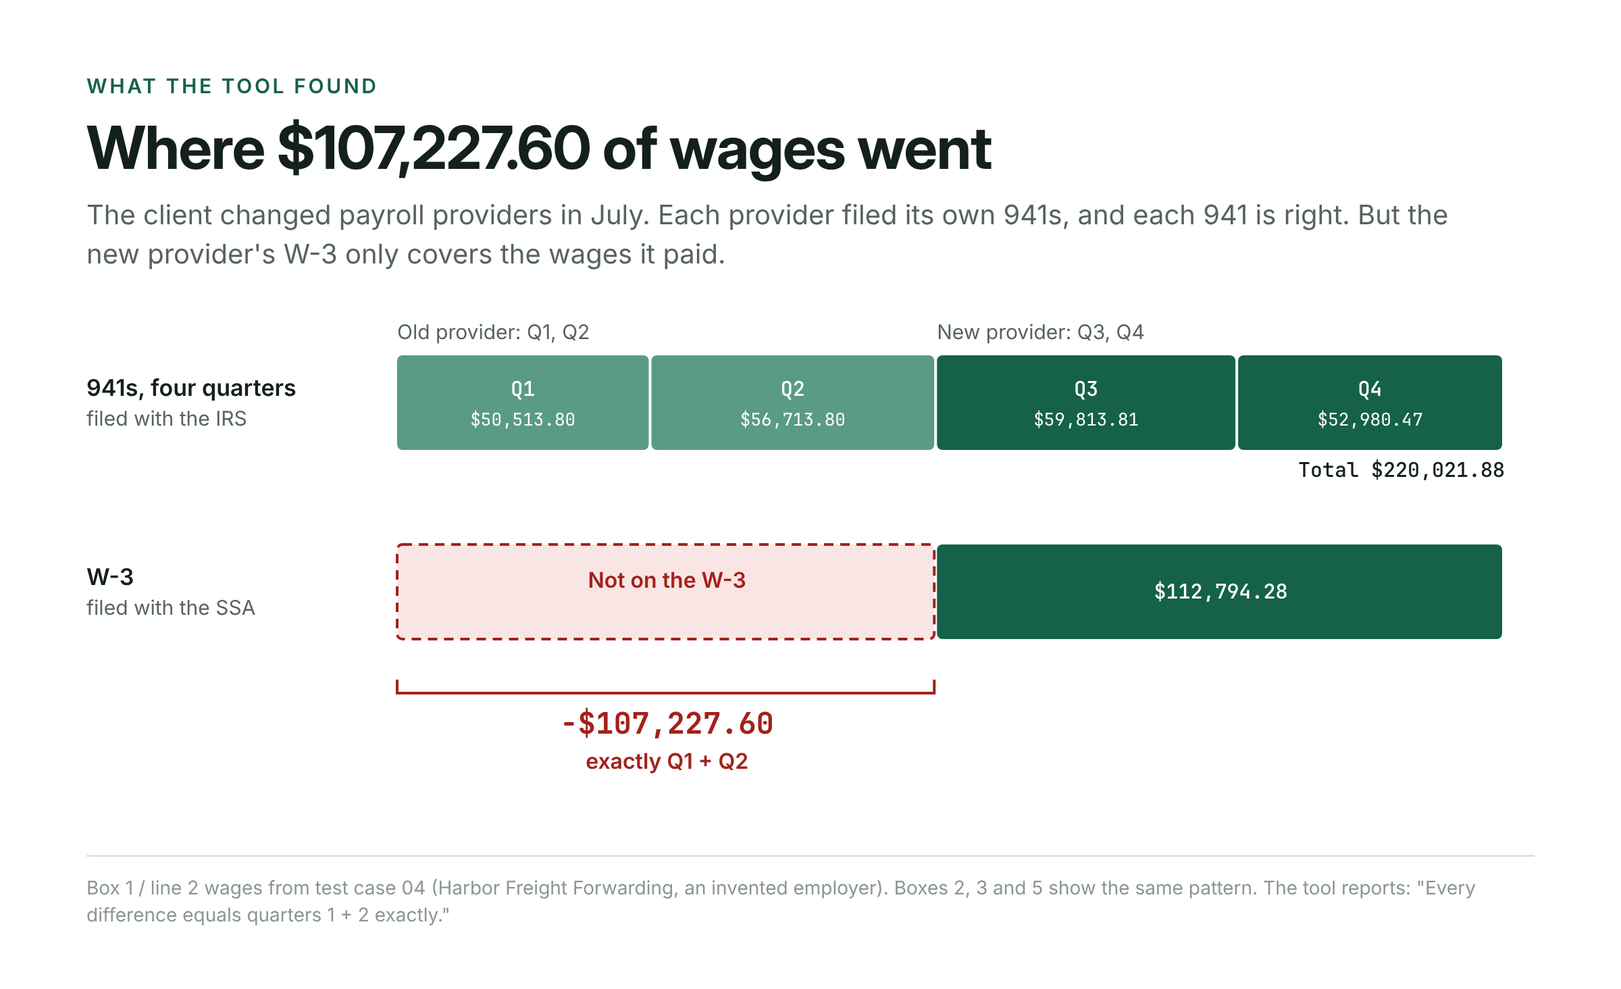
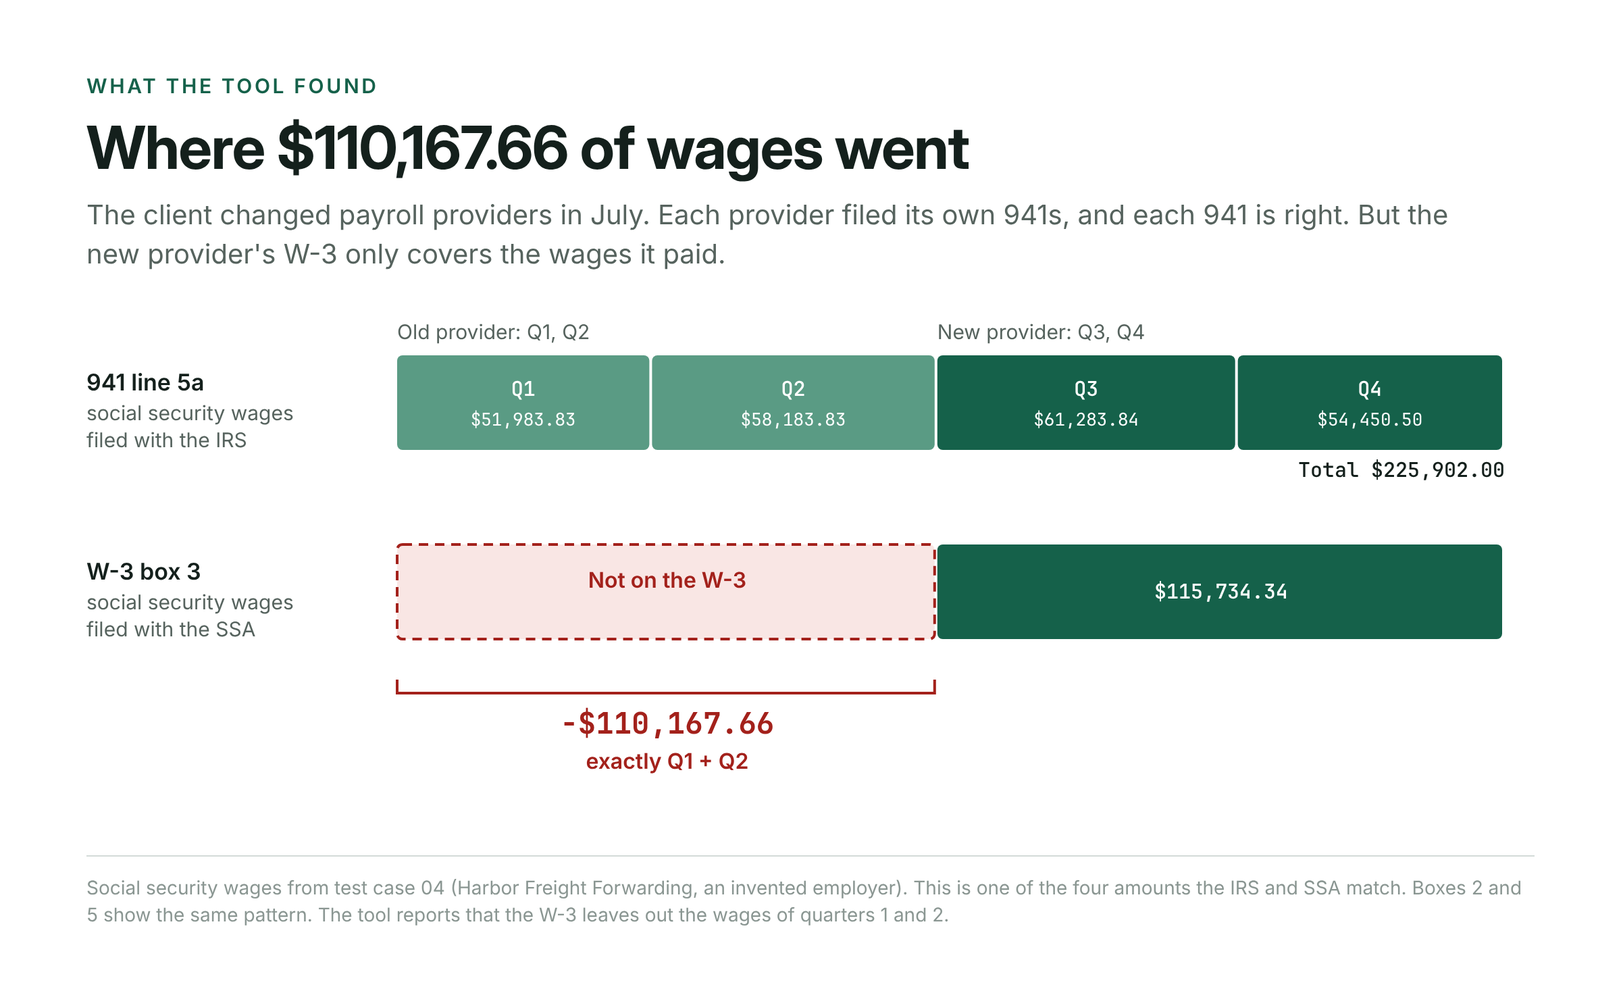
Hire-to-Retire 01: article draft, figures, prompt gaps closed
Claude-Session: https://claude.ai/code/session_01HPUTLpSBwbmxZGcWc1MmzR

diff --git a/hire-to-retire/01-do-the-941s-match-the-w3/article/visuals/fig1-provider-switch.html b/hire-to-retire/01-do-the-941s-match-the-w3/article/visuals/fig1-provider-switch.html
@@ -6,17 +6,17 @@ svg text{font-family:var(--text);fill:var(--ink)}
 </style></head><body>
 <div class="frame">
   <div class="kicker">What the tool found</div>
-  <h1>Where $107,227.60 of wages went</h1>
+  <h1>Where $110,167.66 of wages went</h1>
   <p class="sub">The client changed payroll providers in July. Each provider filed its own 941s, and each 941 is right. But the new provider's W-3 only covers the wages it paid.</p>
-  <svg id="c" width="1072" height="400" viewBox="0 0 1072 400" role="img" aria-label="Four quarterly 941 wage bars totalling $220,021.88 against a W-3 of $112,794.28 that covers only quarters 3 and 4"></svg>
-  <p class="source">Box 1 / line 2 wages from test case 04 (Harbor Freight Forwarding, an invented employer). Boxes 2, 3 and 5 show the same pattern. The tool reports: "Every difference equals quarters 1 + 2 exactly."</p>
+  <svg id="c" width="1072" height="400" viewBox="0 0 1072 400" role="img" aria-label="Four quarterly 941 social security wage bars totalling $225,902.00 against a W-3 box 3 of $115,734.34 that covers only quarters 3 and 4"></svg>
+  <p class="source">Social security wages from test case 04 (Harbor Freight Forwarding, an invented employer). This is one of the four amounts the IRS and SSA match. Boxes 2 and 5 show the same pattern. The tool reports that the W-3 leaves out the wages of quarters 1 and 2.</p>
 </div>
 <script>
 const svg=document.getElementById("c"),NS="http://www.w3.org/2000/svg";
 function el(t,a,x){const e=document.createElementNS(NS,t);for(const k in a)e.setAttribute(k,a[k]);if(x!=null)e.textContent=x;svg.appendChild(e);return e;}
-const q=[50513.80,56713.80,59813.81,52980.47], X0=230, W=820, tot=q.reduce((a,b)=>a+b,0), sx=v=>v/tot*W, fmt=v=>"$"+v.toLocaleString("en-US",{minimumFractionDigits:2});
-const rows=[[60,"941s, four quarters","filed with the IRS"],[200,"W-3","filed with the SSA"]];
-rows.forEach(([y,a,b])=>{el("text",{x:0,y:y+30,class:"lab"},a);el("text",{x:0,y:y+52,class:"labs"},b);});
+const q=[51983.83,58183.83,61283.84,54450.50], X0=230, W=820, tot=q.reduce((a,b)=>a+b,0), sx=v=>v/tot*W, fmt=v=>"$"+v.toLocaleString("en-US",{minimumFractionDigits:2});
+const rows=[[60,"941 line 5a","social security wages, filed with the IRS"],[200,"W-3 box 3","social security wages, filed with the SSA"]];
+rows.forEach(([y,a,b])=>{el("text",{x:0,y:y+26,class:"lab"},a);const [l1,l2]=b.split(", ");el("text",{x:0,y:y+48,class:"labs"},l1);el("text",{x:0,y:y+68,class:"labs"},l2);});
 let x=X0;
 q.forEach((v,i)=>{const w=sx(v);el("rect",{x:x,y:60,width:w-2,height:70,rx:4,fill:i<2?"var(--accent-3)":"var(--accent)"});
   el("text",{x:x+(w-2)/2,y:90,"text-anchor":"middle",class:"vw"},"Q"+(i+1));el("text",{x:x+(w-2)/2,y:112,"text-anchor":"middle",class:"vw",style:"font-weight:400;font-size:13px"},fmt(v));x+=w;});
@@ -26,9 +26,9 @@ const gx=X0+sx(q[0]+q[1]), gw=sx(q[2]+q[3]);
 el("rect",{x:X0,y:200,width:sx(q[0]+q[1])-2,height:70,rx:4,fill:"var(--alarm-tint)",stroke:"var(--alarm)","stroke-width":2,"stroke-dasharray":"7 5"});
 el("text",{x:X0+sx(q[0]+q[1])/2,y:232,"text-anchor":"middle",class:"bigl"},"Not on the W-3");
 el("rect",{x:gx,y:200,width:gw-2,height:70,rx:4,fill:"var(--accent)"});
-el("text",{x:gx+gw/2,y:240,"text-anchor":"middle",class:"vw"},fmt(112794.28));
+el("text",{x:gx+gw/2,y:240,"text-anchor":"middle",class:"vw"},fmt(115734.34));
 el("path",{d:`M${X0},300 l0,10 l${sx(q[0]+q[1])-2},0 l0,-10`,stroke:"var(--alarm)","stroke-width":2,fill:"none"});
-el("text",{x:X0+sx(q[0]+q[1])/2,y:340,"text-anchor":"middle",class:"big"},"−"+fmt(107227.60));
+el("text",{x:X0+sx(q[0]+q[1])/2,y:340,"text-anchor":"middle",class:"big"},"−"+fmt(110167.66));
 el("text",{x:X0+sx(q[0]+q[1])/2,y:366,"text-anchor":"middle",class:"bigl"},"exactly Q1 + Q2");
 </script>
 </body></html>

diff --git a/hire-to-retire/01-do-the-941s-match-the-w3/article/visuals/fig3-reconciliation.html b/hire-to-retire/01-do-the-941s-match-the-w3/article/visuals/fig3-reconciliation.html
@@ -1,0 +1,25 @@
+<!doctype html><html><head><meta charset="utf-8"><link rel="stylesheet" href="style.css">
+<style>
+.wrap{display:grid;grid-template-columns:1fr 290px;gap:34px;margin-top:30px;align-items:start}
+.shot{border:1px solid var(--rule);border-radius:8px;overflow:hidden}
+.shot img{display:block;width:100%}
+ol{list-style:none;display:grid;gap:22px}
+li{display:grid;grid-template-columns:36px 1fr;gap:12px;font:400 17px/1.45 var(--text)}
+li b{display:block;font-weight:700;margin-bottom:2px}
+.badge{width:32px;height:32px;border-radius:50%;background:var(--accent);color:var(--paper);font:700 16px/32px var(--text);text-align:center}
+</style></head><body>
+<div class="frame">
+  <div class="kicker">What comes back</div>
+  <h1>A reconciliation to sign and keep</h1>
+  <div class="wrap">
+    <div class="shot"><img src="_recon.png" alt="The reconciliation for test case 04"></div>
+    <ol>
+      <li><span class="badge">1</span><span><b>The verdict first.</b>Agrees, does not agree, or not finished, in one sentence.</span></li>
+      <li><span class="badge">2</span><span><b>What to do.</b>The likely cause and the next step, before any numbers.</span></li>
+      <li><span class="badge">3</span><span><b>Box by box, quarter by quarter.</b>Each W-3 box against the four 941s, with the difference.</span></li>
+      <li><span class="badge">4</span><span><b>The tax check.</b>Social security and Medicare tax on the 941s against the W-3, with the arithmetic shown.</span></li>
+    </ol>
+  </div>
+  <p class="source">Screenshot of the tool on test case 04 (Harbor Freight Forwarding, an invented employer). Cropped; the full page continues with every figure read from each 941 and every page it was given.</p>
+</div>
+</body></html>

diff --git a/hire-to-retire/01-do-the-941s-match-the-w3/agent/do-the-941s-match-the-w3.html b/hire-to-retire/01-do-the-941s-match-the-w3/agent/do-the-941s-match-the-w3.html
@@ -662,7 +662,7 @@ function render(rep){
   h.push('<div class="wp-head"><div><h1>941 to W-3 reconciliation, ' + (rep.year || "") + "</h1>" +
     '<p class="verdict ' + verdict[0] + '" id="verdict">' + esc(verdict[1]) + "</p>" +
     '<p class="meta">Employer: ' + esc(rep.employer || "not shown") + " &middot; EIN " + esc(rep.ein || "not shown") + " &middot; prepared " + today() + "</p>" +
-    '<p class="meta">Rule applied: IRS General Instructions for Forms W-2 and W-3 (2026), "Reconciling Forms W-2, W-3, 941...": boxes 2, 3, 5 and 7 must agree with the year\'s 941s (the IRS and SSA match these in their Combined Annual Wage Reporting program); box 1 should agree with line 2; 941 social security and Medicare taxes should be about twice boxes 4 and 6.</p></div>' +
+    '<p class="meta">Rule applied: IRS General Instructions for Forms W-2 and W-3 (2026), "Reconciling Forms W-2, W-3, 941...". W-3 boxes 2, 3, 5 and 7 must agree with the year\'s 941s; the IRS and SSA compare these in their Combined Annual Wage Reporting program. The 941 social security and Medicare tax must agree with W-3 boxes 4 and 6 plus the employer\'s share. Box 1 is shown, but the IRS does not compare it.</p></div>' +
     '<div class="sign"><label for="preparedBy">Prepared by<input id="preparedBy" type="text" autocomplete="off"></label>' +
     '<label for="reviewedBy">Reviewed by<input id="reviewedBy" type="text" autocomplete="off"></label></div></div>');
   var firstStop = rep.exceptions.find(function(e){ return STOPS[e.code]; });

diff --git a/hire-to-retire/01-do-the-941s-match-the-w3/agent/do-the-941s-match-the-w3.src.html b/hire-to-retire/01-do-the-941s-match-the-w3/agent/do-the-941s-match-the-w3.src.html
@@ -617,7 +617,7 @@ function render(rep){
   h.push('<div class="wp-head"><div><h1>941 to W-3 reconciliation, ' + (rep.year || "") + "</h1>" +
     '<p class="verdict ' + verdict[0] + '" id="verdict">' + esc(verdict[1]) + "</p>" +
     '<p class="meta">Employer: ' + esc(rep.employer || "not shown") + " &middot; EIN " + esc(rep.ein || "not shown") + " &middot; prepared " + today() + "</p>" +
-    '<p class="meta">Rule applied: IRS General Instructions for Forms W-2 and W-3 (2026), "Reconciling Forms W-2, W-3, 941...": boxes 2, 3, 5 and 7 must agree with the year\'s 941s (the IRS and SSA match these in their Combined Annual Wage Reporting program); box 1 should agree with line 2; 941 social security and Medicare taxes should be about twice boxes 4 and 6.</p></div>' +
+    '<p class="meta">Rule applied: IRS General Instructions for Forms W-2 and W-3 (2026), "Reconciling Forms W-2, W-3, 941...". W-3 boxes 2, 3, 5 and 7 must agree with the year\'s 941s; the IRS and SSA compare these in their Combined Annual Wage Reporting program. The 941 social security and Medicare tax must agree with W-3 boxes 4 and 6 plus the employer\'s share. Box 1 is shown, but the IRS does not compare it.</p></div>' +
     '<div class="sign"><label for="preparedBy">Prepared by<input id="preparedBy" type="text" autocomplete="off"></label>' +
     '<label for="reviewedBy">Reviewed by<input id="reviewedBy" type="text" autocomplete="off"></label></div></div>');
   var firstStop = rep.exceptions.find(function(e){ return STOPS[e.code]; });

diff --git a/hire-to-retire/01-do-the-941s-match-the-w3/article/visuals/render.js b/hire-to-retire/01-do-the-941s-match-the-w3/article/visuals/render.js
@@ -12,13 +12,14 @@ const HERE = __dirname, OUT = path.join(HERE, "../images"), C = path.join(HERE, 
   await p.setInputFiles('input[type="file"]', ["04-q1-941-old-provider.pdf", "04-q2-941-old-provider.pdf", "04-q3-941-ledgerline.pdf", "04-q4-941-ledgerline.pdf", "04-w3-ledgerline.pdf"].map((f) => C + f));
   await p.waitForFunction(() => window.__report);
   await p.fill("#preparedBy", "M. Okafor, CPA");
+  await p.evaluate(() => document.activeElement && document.activeElement.blur());
   const clip = await p.evaluate(() => {
     document.querySelector(".bar").style.display = "none";
     const badge = (el, n, dx, dy) => { const r = el.getBoundingClientRect(), d = document.createElement("div"); d.textContent = n;
       Object.assign(d.style, { position: "absolute", left: (r.left + scrollX + dx) + "px", top: (r.top + scrollY + dy) + "px", width: "38px", height: "38px", borderRadius: "50%",
         background: "#15614a", color: "#fff", font: "700 20px/38px Inter, sans-serif", textAlign: "center", boxShadow: "0 0 0 4px #fff", zIndex: 9 }); document.body.appendChild(d); };
     badge(document.getElementById("verdict"), "1", -46, 0);
-    badge(document.querySelector("ul.first li"), "2", -46, 0);
+    badge(document.getElementById("stop-banner"), "2", -46, 0);
     badge(document.querySelector("table.recon tbody tr"), "3", -46, 4);
     badge(document.querySelector("#sec-tax"), "4", -46, 14);
     const top = document.querySelector(".wp-head").getBoundingClientRect().top + scrollY - 24;

diff --git a/hire-to-retire/01-do-the-941s-match-the-w3/article/ARTICLE.md b/hire-to-retire/01-do-the-941s-match-the-w3/article/ARTICLE.md
@@ -1,0 +1,77 @@
+<!--
+DRAFT FOR APPROVAL. Not published.
+Series: One Painful Problem. Process: Hire-to-Retire. Episode 1.
+Cover image: images/cover.png (1920 x 1080). Inline images: images/fig1 to fig5, each placed where it appears below.
+-->
+
+# The payroll letter that arrives two years late
+
+![Cover: a timeline from a payroll provider change in July 2026 to a Letter 99C in 2028](images/cover.png)
+
+This year the IRS has been matching 2024's payroll forms. It sets each employer's four quarterly Forms 941 against the W-3 that summarizes its W-2s. Where they disagree, it sends a Letter 99C with 45 days to answer ([IRS](https://www.irs.gov/businesses/small-businesses-self-employed/combined-annual-wage-reporting-employment-tax-problem-inquiries)).
+
+Here is how one of those letters starts. A client changes payroll providers in July. The old provider files the 941s for January through June; the new one files July through December. In January the new provider files the W-3, which covers only the wages it paid. Every form is correct on its own. Nobody puts them side by side, and the gap waits two years for the IRS to find it.
+
+That client is invented. It is one of our test files. The rule is not: the IRS General Instructions for Forms W-2 and W-3 tell employers to reconcile the W-3 with "the 2026 yearly totals from the quarterly Forms 941" and to "retain your reconciliation information in case you receive inquiries from the IRS or the SSA" ([IRS](https://www.irs.gov/instructions/iw2w3)). This is the second episode of a series that builds one small tool per step of an accounting process. This one is for payroll year-end, and the W-3 for 2026 wages is due February 1, 2027.
+
+## Where $110,167.66 went
+
+![The new provider's W-3 leaves out exactly the first two quarters](images/fig1-provider-switch.png)
+
+In the test file, the four 941s report $225,902.00 of social security wages. The W-3 reports $115,734.34. The difference, $110,167.66, is exactly the first two quarters. The same is true of federal withholding and Medicare wages. The likeliest explanation is not an error in anyone's software. The old provider filed its own W-3 for the first half, and nobody looked for it.
+
+The tool says so in plain words: "The W-3 leaves out the wages of quarters 1 and 2." It tells the accountant to ask the earlier provider for its W-3 and add it. Given both W-3s, it adds them together and the year agrees.
+
+## What it reads
+
+The provider files the forms; proving they agree is left to the accountant. So the tool starts from what was filed. The accountant drops in the year's 941s and the W-3 as PDFs, as separate files or as one year-end packet.
+
+![Four ways a 941 arrives: filled-in IRS form, printed copy, provider layout, and a scan it cannot read](images/fig2-four-ways.png)
+
+It reads the official IRS form by the position of each line, and a provider's own layout by its line labels. Then it does what the IRS instructions describe: W-3 boxes 2, 3, 5 and 7 against the year's 941s, and the social security and Medicare tax against the W-3. Every figure shows the file and page it came from. It runs in the browser, uploads nothing, and the arithmetic is ordinary code. The same files always give the same answer.
+
+![The reconciliation: verdict, what to do, the table by quarter, and the tax check](images/fig3-reconciliation.png)
+
+## Every check found something
+
+We wrote the test before the tool: 17 cases, 71 PDFs built from a payroll model. Some quarters are missing; some are a scan, last year's, or filed twice. One has an amended 941-X and one a quarter under an old EIN. One has third-party sick pay, and one a restaurant's uncollected tip tax. The final version passes all 1,207 checks. We then broke it on purpose eight ways, and the tests caught every one.
+
+Getting there was humbling.
+
+The first test run passed 2 of 15 cases. The IRS prints each line number just left of its amount, and the tool read the "2" as part of the number: $50,513.80 became $250,513.80.
+
+A separate AI session, told to act as a skeptical payroll-tax reviewer, found four places where our rules did not follow the IRS text:
+- the IRS does not compare box 1;
+- box 2 must be reduced by third-party sick pay withholding in box 14;
+- the tax check needed the employer's share worked out properly;
+- an amended 941-X for the same year belongs in the totals, not set aside.
+
+It also found that our test data had been built so the old tax check would always pass.
+
+Another session, playing a 60-year-old partner with no patience for software, found the most dangerous line. After a provider switch, the tool advised filing corrected W-2s, which could have reported the same wages twice. It now asks for the other W-3 first.
+
+REBUILD_STORY_PLACEHOLDER
+
+![Every check found something](images/fig4-every-check-found-something.png)
+
+By hand, our estimate is about 20 minutes per client when nothing is wrong: copy 40 figures from four 941s and 7 from the W-3, add, compare. That is an estimate, not a measurement; the next round times a practicing accountant.
+
+## What it won't do
+
+It compares the forms it is given with each other, not with the IRS's records. It does not check individual W-2s, state forms, Form 940 or deposits. It cannot read a scan; a person can. It is not for aggregate filers or PEOs, successor-employer arrangements, household employers, or 943, 944 and CT-1 filers. Some differences are valid, and when it flags one the reason is the accountant's to confirm.
+
+## The series
+
+![Five processes, one tool at a time](images/fig5-series-map.png)
+
+Episode 1 found the 1099 vendors your software misses. This is episode 2. Every tool comes with its test files, its results, and one prompt that rebuilds it from nothing. The prompt is below, and everything else is at [github.com/accountingnonerd/-](https://github.com/accountingnonerd/-).
+
+## Your turn
+
+What part of payroll year-end do you still do by hand? Tell me the step, the form it starts from, and how long it takes.
+
+---
+
+## Appendix: the rebuild prompt, in full
+
+PROMPT_PLACEHOLDER

diff --git a/hire-to-retire/01-do-the-941s-match-the-w3/README.md b/hire-to-retire/01-do-the-941s-match-the-w3/README.md
@@ -38,11 +38,13 @@ The files are read on your computer. Nothing is uploaded, stored or sent.
 - A one-sentence verdict: agrees, does not agree, not complete, or not reconciled.
 - **Check these first.** Missing, duplicated or wrong-year quarters; scans it cannot read; a
   941 that does not add up; a W-3 that does not agree with itself; an EIN missing from W-3
-  box h; an amended 941-X.
-- **The reconciliation.** W-3 boxes 1, 2, 3, 5 and 7 against the four quarters, with the
-  difference. If a difference equals one or more quarters exactly, it says which.
-- **The tax check.** 941 lines 5e plus 7, against twice W-3 boxes 4 and 6 less the
-  employee-only Additional Medicare Tax.
+  box h. Also, as information: a 941-X for the year (added into its quarter), two W-3s after a
+  change of provider (added together), uncollected tax on tips (line 9) and third-party sick pay.
+- **The reconciliation.** W-3 boxes 2 (less box 14), 3, 5 and 7 against the four quarters, with
+  the difference. Box 1 is shown too, but the IRS does not compare it. If a difference equals one
+  or more quarters exactly, it says which, and what to ask for.
+- **The tax check.** 941 lines 5e, 7 and 9, against W-3 boxes 4 and 6 plus the employer's share
+  worked out from boxes 3, 5 and 7.
 - **What I read from each 941.** Every figure, by quarter, with the file and page it came from.
 - **Every page I was given,** and whether it was used.
 
@@ -52,13 +54,14 @@ It does not:
 - check the individual W-2s (wage base by employee, box 12 codes, 2% shareholder health
   insurance). That is a separate, planned episode;
 - read scans or photos. A person can read them; this tool cannot;
-- add a 941-X's corrections into a quarter. It flags the 941-X and says the difference
-  should equal the correction;
-- know about valid differences it cannot see: third-party sick pay (W-3 boxes 13 and 14),
-  prior-year adjustments on a 941, or a successor employer's wages. When it flags a
-  difference, the reason is yours to confirm;
-- handle Form 944, 943, CT-1 or Schedule H filers, state forms, Form 940, or deposits against
-  the IRS account;
+- read a 941-X in a provider's own layout; it reads the IRS form;
+- handle third-party sick pay where the insurer issued its own W-2s (it assumes your W-2s
+  include the sick pay and W-3 box 14 is filled in);
+- know about valid differences it cannot see, such as a successor employer's wages. When it
+  flags a difference, the reason is yours to confirm;
+- handle aggregate filers (section 3504 agents, PEOs), Form 944, 943, CT-1 or Schedule H
+  filers, state forms, Form 940, or deposits against the IRS account;
+- check the forms against the IRS's records. It compares the PDFs you give it with each other;
 - read a 941 or W-3 from a revision other than 2025 or 2026 with certainty. It reads the
   official IRS layout by column position, and provider layouts by their line labels.
 
@@ -69,7 +72,7 @@ It does not:
 | `agent/do-the-941s-match-the-w3.html` | The tool. One file, works offline. |
 | `agent/do-the-941s-match-the-w3.src.html` | The readable source. It loads its PDF reader from a CDN. |
 | `agent/build.py` | Pastes the PDF reader into the source to make the offline file. |
-| `tests/cases/` | 15 test cases, 60 PDFs. Invented employers; official IRS blank forms. |
+| `tests/cases/` | 17 test cases, 71 PDFs. Invented employers; official IRS blank forms. |
 | `tests/forms/` | The official blank IRS forms the test files are built from. |
 | `tests/make_cases.py` | Builds the test files from a payroll model, and writes the answer key. |
 | `tests/answer-key.json` | The answer key. |

diff --git a/hire-to-retire/01-do-the-941s-match-the-w3/REBUILD-PROMPT.md b/hire-to-retire/01-do-the-941s-match-the-w3/REBUILD-PROMPT.md
@@ -60,7 +60,7 @@ All coordinates are PDF points, with the origin at the bottom left. A "row" mean
 - Official IRS layout: each amount is a dollars part and a cents part in fixed columns. The IRS also prints the line number just left of the dollars column, so the columns must exclude it.
   - Ordinary lines: dollars between x = 443 and 550, cents between 550 and 582.
   - Lines 5a to 5d: column 1 dollars 212 to 285 and cents 285 to 313; column 2 dollars 350 to 421 and cents 421 to 449.
-  - A token is in a dollars column if it overlaps it and looks like a number (digits, commas, optional minus or parentheses).
+  - A token is in a dollars column only if its right edge is more than 2 points past the column's left edge, its left edge is more than 2 points before the column's right edge, and it looks like a number (digits, commas, optional minus or parentheses). The 2-point margin matters: the printed two-digit line numbers "10", "11" and "12" just touch the dollars column and must not be read as digits.
   - A cents token starts inside the cents column and has one to three digits; take its first two.
   - A dollars token that already contains a decimal point is the whole amount.
   - A line with nothing in its columns is zero.
@@ -69,7 +69,7 @@ All coordinates are PDF points, with the origin at the bottom left. A "row" mean
 - Quarter:
   - Official layout: find the labels `1: January`, `2: April`, `3: July`, `4: October`. The marked one has an `X` or a check token on its row that starts within 30 points to the left of the label.
   - Otherwise, or if none or several are marked: look for `Quarter\s*:?\s*([1-4])` or `\bQ([1-4])\b` in the page text.
-- EIN: on the row of "Employer identification number", join the digit tokens more than 60 points right of the label. If that gives nine digits, format as `NN-NNNNNNN`. Otherwise use the first `\d{2}-\d{7}` in the page text.
+- EIN: take every token, text runs and form-field values alike, whose `yc` is within 8 points of the "Employer identification number" label and whose left edge is more than 60 points right of the label's start, and which consists only of digits and hyphens. Join them in left-to-right order without the hyphens. If that gives nine digits, format as `NN-NNNNNNN`. Otherwise use the first `\d{2}-\d{7}` in the page text.
 - Name: the tokens right of "Name (not your trade name)" or "Name:".
 
 ### Reading a Form 941-X (amended return)
@@ -197,4 +197,6 @@ After the files are read, set `window.__report` to:
 - Dollar values are numbers in dollars. `quartersFound` lists the quarters actually used, in order.
 - Quarter lines include any current-year 941-X corrections. `recon.b2.w3` is box 2 less box 14.
 - On `ARITHMETIC`, put the quarter number in `quarter`.
-- If the files cannot be used, set `window.__report = { fatal, message }`, with `fatal` equal to `NO_FORMS` or `FORM_944`.
+- If the files cannot be used, set `window.__report = { fatal, message }`, with `fatal` equal to `NO_FORMS` or `FORM_944`, and show the message in a visible element with `id="problem"` on the start screen.
+- A quarter with two different 941s still counts in `quartersFound`; only the reconciliation is withheld.
+- Set `window.__report` to `undefined` when new files are given, and set it once the result (or refusal) is on screen.
